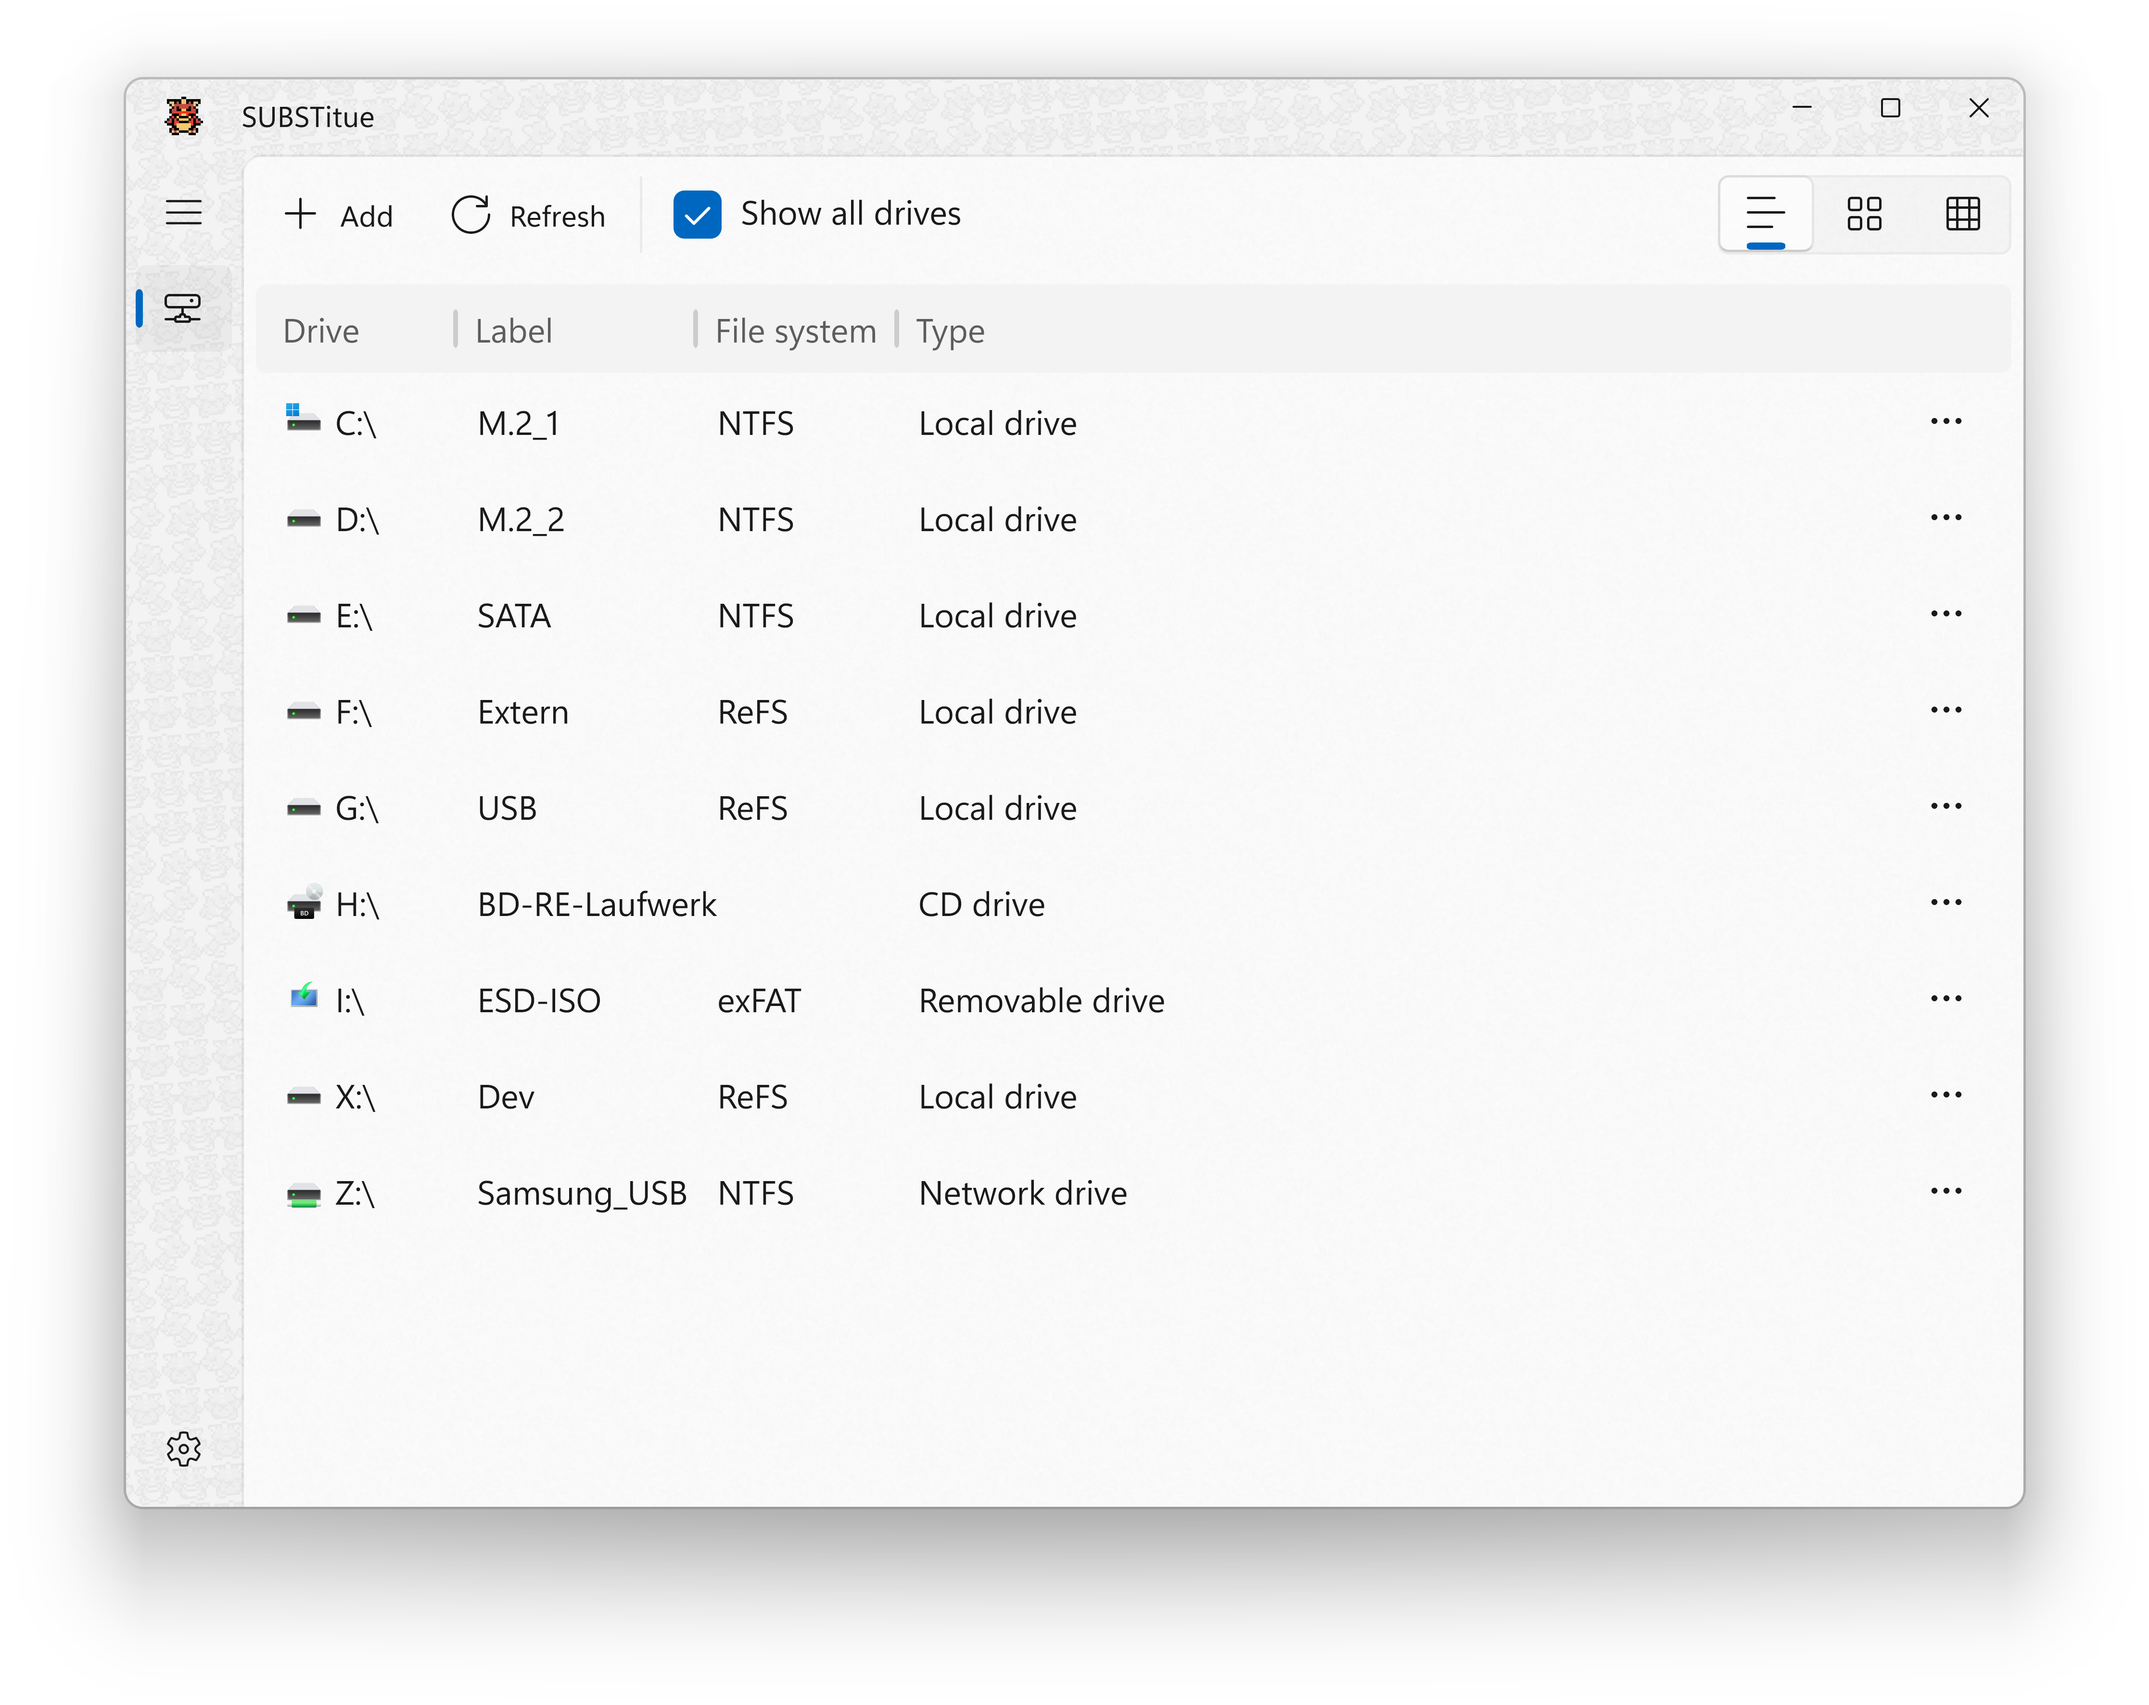
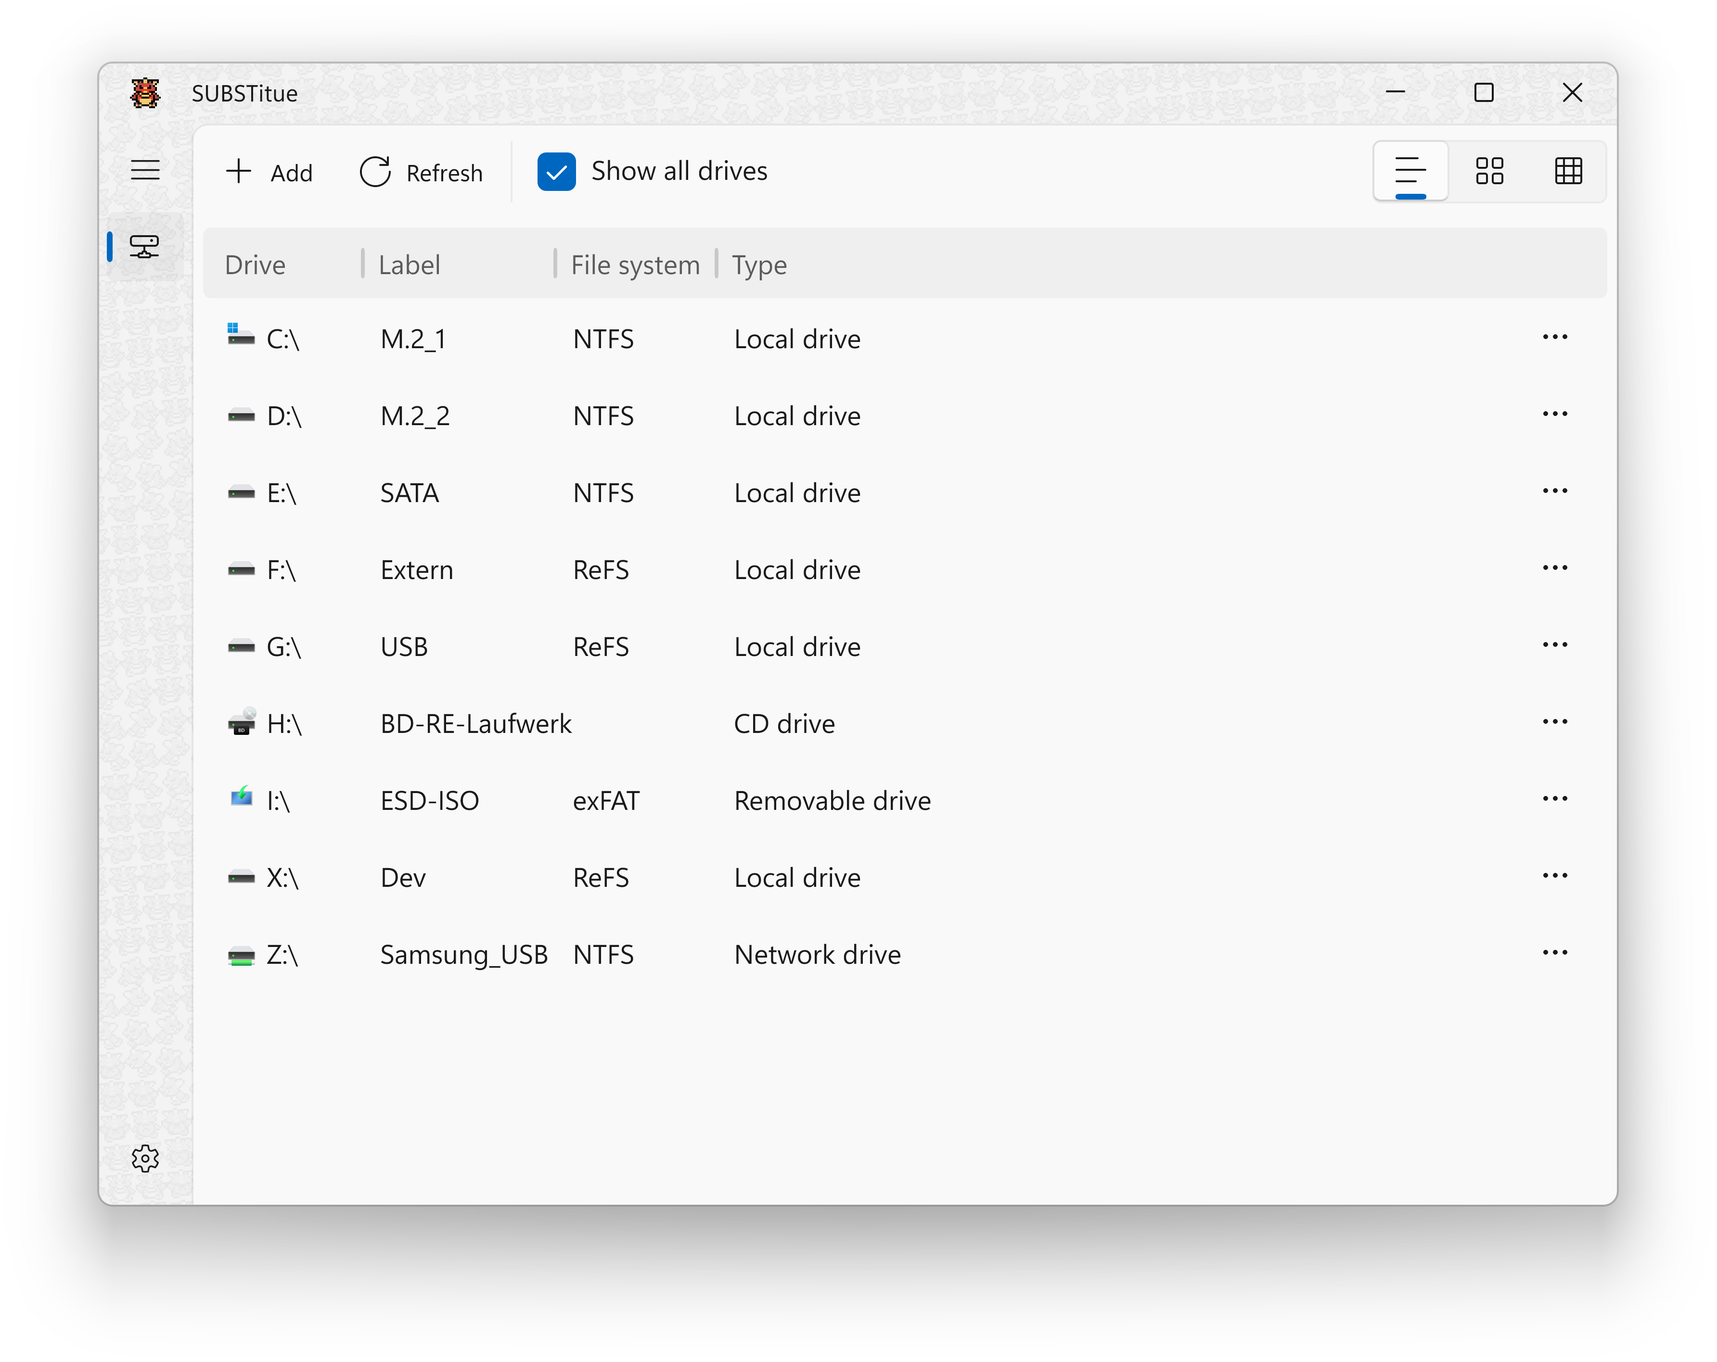
Use Mica instead of Acryl for content background

diff --git a/src/Views/MainWindow.xaml b/src/Views/MainWindow.xaml
@@ -30,7 +30,13 @@
             <converters:NavigationViewDisplayModeToBoolConverter x:Key="NavigationViewDisplayModeToBoolConverter" />
         </Grid.Resources>
 
-        <canvas:CanvasControl x:Name="PatternCanvas"
+        <Grid.RowDefinitions>
+            <RowDefinition Height="Auto" />
+            <RowDefinition Height="*" />
+        </Grid.RowDefinitions>
+
+        <canvas:CanvasControl x:Name="PatternCanvasHorizontal"
+                              Grid.Row="0"
                               HorizontalAlignment="Stretch"
                               VerticalAlignment="Stretch"
                               CreateResources="PatternCanvas_CreateResources"
@@ -38,45 +44,49 @@
                               IsHitTestVisible="False"
                               Opacity="0.05" />
 
-        <Grid>
-            <Grid.RowDefinitions>
-                <RowDefinition Height="Auto" />
-                <RowDefinition Height="*" />
-            </Grid.RowDefinitions>
+        <canvas:CanvasControl x:Name="PatternCanvasVertical"
+                              Grid.Row="1"
+                              Width="50"
+                              HorizontalAlignment="Left"
+                              VerticalAlignment="Stretch"
+                              CreateResources="PatternCanvas_CreateResources"
+                              Draw="PatternCanvas_Draw"
+                              IsHitTestVisible="False"
+                              Opacity="0.05"
+                              Visibility="{x:Bind PatternCanvasHorizontal.Visibility, Mode=OneWay}" />
 
-            <views:AppTitleBar x:Name="AppTitleBar" Grid.Row="0" />
+        <views:AppTitleBar x:Name="AppTitleBar" Grid.Row="0" />
 
-            <NavigationView x:Name="NavView"
-                            Grid.Row="1"
-                            HorizontalAlignment="Stretch"
-                            VerticalAlignment="Stretch"
-                            d:DataContext="{d:DesignInstance Type=viewmodels:MainViewModel}"
-                            BackRequested="NavView_BackRequested"
-                            CompactModeThresholdWidth="750"
-                            IsBackButtonVisible="Collapsed"
-                            IsPaneToggleButtonVisible="{Binding DisplayMode, RelativeSource={RelativeSource Self}, Mode=OneWay, Converter={StaticResource NavigationViewDisplayModeToBoolConverter}}"
-                            IsSettingsVisible="True"
-                            IsTabStop="False"
-                            Loaded="NavView_Loaded"
-                            OpenPaneLength="200"
-                            PaneClosing="NavView_PaneClosing"
-                            PaneDisplayMode="Auto"
-                            PaneOpening="NavView_PaneOpening"
-                            SelectionChanged="NavView_SelectionChanged">
-                <NavigationView.MenuItems>
-                    <NavigationViewItem x:Uid="NavigationViewItem"
-                                        Icon="MapDrive"
-                                        Tag="{extensions:Type Type='views:MappingView'}" />
-                </NavigationView.MenuItems>
+        <NavigationView x:Name="NavView"
+                        Grid.Row="1"
+                        HorizontalAlignment="Stretch"
+                        VerticalAlignment="Stretch"
+                        d:DataContext="{d:DesignInstance Type=viewmodels:MainViewModel}"
+                        BackRequested="NavView_BackRequested"
+                        CompactModeThresholdWidth="750"
+                        IsBackButtonVisible="Collapsed"
+                        IsPaneToggleButtonVisible="{Binding DisplayMode, RelativeSource={RelativeSource Self}, Mode=OneWay, Converter={StaticResource NavigationViewDisplayModeToBoolConverter}}"
+                        IsSettingsVisible="True"
+                        IsTabStop="False"
+                        Loaded="NavView_Loaded"
+                        OpenPaneLength="200"
+                        PaneClosing="NavView_PaneClosing"
+                        PaneDisplayMode="Auto"
+                        PaneOpening="NavView_PaneOpening"
+                        SelectionChanged="NavView_SelectionChanged">
+            <NavigationView.MenuItems>
+                <NavigationViewItem x:Uid="NavigationViewItem"
+                                    Icon="MapDrive"
+                                    Tag="{extensions:Type Type='views:MappingView'}" />
+            </NavigationView.MenuItems>
 
-                <Grid Background="{ThemeResource AcrylicBackgroundFillColorDefaultBrush}">
-                    <Frame x:Name="ContentFrame" />
-                    <InfoBar x:Name="InfoBar"
-                             Margin="10"
-                             HorizontalAlignment="Center"
-                             VerticalAlignment="Bottom" />
-                </Grid>
-            </NavigationView>
-        </Grid>
+            <Grid x:Name="NavigationViewContentGrid" SizeChanged="Grid_SizeChanged">
+                <Frame x:Name="ContentFrame" />
+                <InfoBar x:Name="InfoBar"
+                         Margin="10"
+                         HorizontalAlignment="Center"
+                         VerticalAlignment="Bottom" />
+            </Grid>
+        </NavigationView>
     </Grid>
 </ex:WindowEx>

diff --git a/src/Views/ListView.xaml b/src/Views/ListView.xaml
@@ -24,7 +24,7 @@
 
         <ListView.Header>
             <Border Padding="7,9"
-                    Background="{ThemeResource SolidBackgroundFillColorBase}"
+                    Background="{ThemeResource LayerOnMicaBaseAltFillColorSecondary}"
                     CornerRadius="4">
                 <i:Interaction.Behaviors>
                     <behaviors:StickyHeaderBehavior />

diff --git a/src/Views/MainWindow.xaml.cs b/src/Views/MainWindow.xaml.cs
@@ -229,7 +229,7 @@ namespace Sungaila.SUBSTitute.Views
                 SourceRectangle = _canvasBitmap.Bounds
             };
 
-            using var transform = new Transform2DEffect
+            using var rotate = new Transform2DEffect
             {
                 Source = tile,
                 CacheOutput = true,
@@ -237,7 +237,22 @@ namespace Sungaila.SUBSTitute.Views
                 InterpolationMode = CanvasImageInterpolation.HighQualityCubic
             };
 
-            args.DrawingSession.DrawImage(transform);
+            if (sender == PatternCanvasVertical)
+            {
+                using var move = new Transform2DEffect
+                {
+                    Source = rotate,
+                    CacheOutput = true,
+                    TransformMatrix = Matrix3x2.CreateTranslation(Vector2.Zero) * Matrix3x2.CreateTranslation(0, (float)-PatternCanvasHorizontal.ActualHeight),
+                    InterpolationMode = CanvasImageInterpolation.HighQualityCubic
+                };
+
+                args.DrawingSession.DrawImage(move);
+            }
+            else
+            {
+                args.DrawingSession.DrawImage(rotate);
+            }
         }
 
         public static bool GetPatternCanvasVisible() => App.LocalSettings.Values["RenderBackgroundPattern"] is not bool render || render;
@@ -250,7 +265,7 @@ namespace Sungaila.SUBSTitute.Views
 
         private void UpdatePatternCanvasVisibility()
         {
-            PatternCanvas.Visibility = GetPatternCanvasVisible()
+            PatternCanvasHorizontal.Visibility = GetPatternCanvasVisible()
                 ? Visibility.Visible
                 : Visibility.Collapsed;
         }
@@ -258,5 +273,10 @@ namespace Sungaila.SUBSTitute.Views
         private void NavView_PaneOpening(NavigationView sender, object args) => App.LocalSettings.Values["NavViewPaneOpen"] = true;
 
         private void NavView_PaneClosing(NavigationView sender, NavigationViewPaneClosingEventArgs args) => App.LocalSettings.Values["NavViewPaneOpen"] = false;
+
+        private void Grid_SizeChanged(object sender, SizeChangedEventArgs e)
+        {
+            PatternCanvasVertical.Width = NavigationView.ActualWidth - ContentFrame.ActualWidth;
+        }
     }
 }

diff --git a/README.md b/README.md
@@ -3,12 +3,12 @@
 # SUBSTitute
 A GUI for mapping directories to virtual drives (see *SUBST* command). It is built on top of **.NET 9** and **Windows App SDK (WinUI 3)**.
 
-<img src="https://raw.githubusercontent.com/sungaila/SUBSTitute/master/etc/screenshot5_en-us.jpg" width="800" alt="Screenshot from version 3.0.0">
+<img src="https://raw.githubusercontent.com/sungaila/SUBSTitute/master/etc/screenshot5_en-us.png" width="800" alt="Screenshot from version 3.0.1">
 <span style="white-space:nowrap">
-<img src="https://raw.githubusercontent.com/sungaila/SUBSTitute/master/etc/screenshot1_en-us.jpg" width="200" alt="Screenshot from version 3.0.0">
-<img src="https://raw.githubusercontent.com/sungaila/SUBSTitute/master/etc/screenshot2_en-us.jpg" width="200" alt="Screenshot from version 3.0.0">
-<img src="https://raw.githubusercontent.com/sungaila/SUBSTitute/master/etc/screenshot3_en-us.jpg" width="200" alt="Screenshot from version 3.0.0">
-<img src="https://raw.githubusercontent.com/sungaila/SUBSTitute/master/etc/screenshot4_en-us.jpg" width="200" alt="Screenshot from version 3.0.0">
+<img src="https://raw.githubusercontent.com/sungaila/SUBSTitute/master/etc/screenshot1_en-us.png" width="200" alt="Screenshot from version 3.0.1">
+<img src="https://raw.githubusercontent.com/sungaila/SUBSTitute/master/etc/screenshot2_en-us.png" width="200" alt="Screenshot from version 3.0.1">
+<img src="https://raw.githubusercontent.com/sungaila/SUBSTitute/master/etc/screenshot3_en-us.png" width="200" alt="Screenshot from version 3.0.1">
+<img src="https://raw.githubusercontent.com/sungaila/SUBSTitute/master/etc/screenshot4_en-us.png" width="200" alt="Screenshot from version 3.0.1">
 </span>
 <br>
 <a href="https://apps.microsoft.com/detail/9NGPRNJJKLBG?launch=true">
